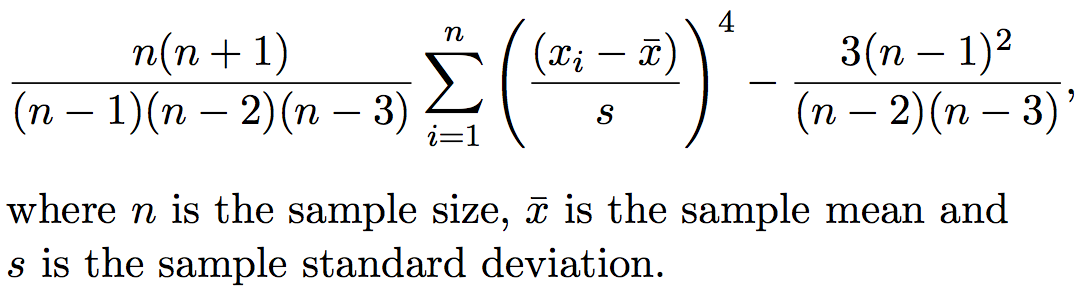
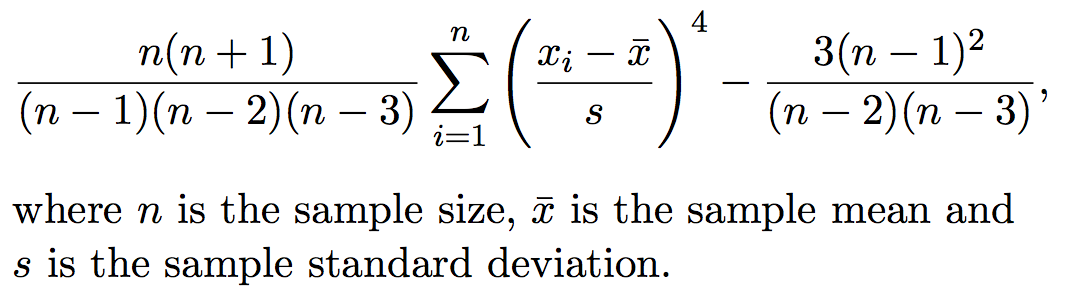
Update

diff --git a/Graphics/formulas/latex/sigma_swift_statistics_formulas.tex b/Graphics/formulas/latex/sigma_swift_statistics_formulas.tex
@@ -46,7 +46,7 @@ where $n$ is the sample size, $\bar{x}$ is the sample mean and\\$\sigma$ is the 
 \subsection*{Kurtosis A}
 
 \begin{flalign*}
-&\frac{n(n + 1)}{(n - 1)(n - 2)(n - 3)}\sum_{i=1}^{n} \Bigg( \frac{(x_i - \bar{x})}{s} \Bigg)^4 - \frac{3(n - 1)^2}{(n - 2)(n - 3)},&
+&\frac{n(n + 1)}{(n - 1)(n - 2)(n - 3)}\sum_{i=1}^{n} \Bigg( \frac{x_i - \bar{x}}{s} \Bigg)^4 - \frac{3(n - 1)^2}{(n - 2)(n - 3)},&
 \end{flalign*}
 where $n$ is the sample size, $\bar{x}$ is the sample mean and\\$s$ is the sample standard deviation.
 
